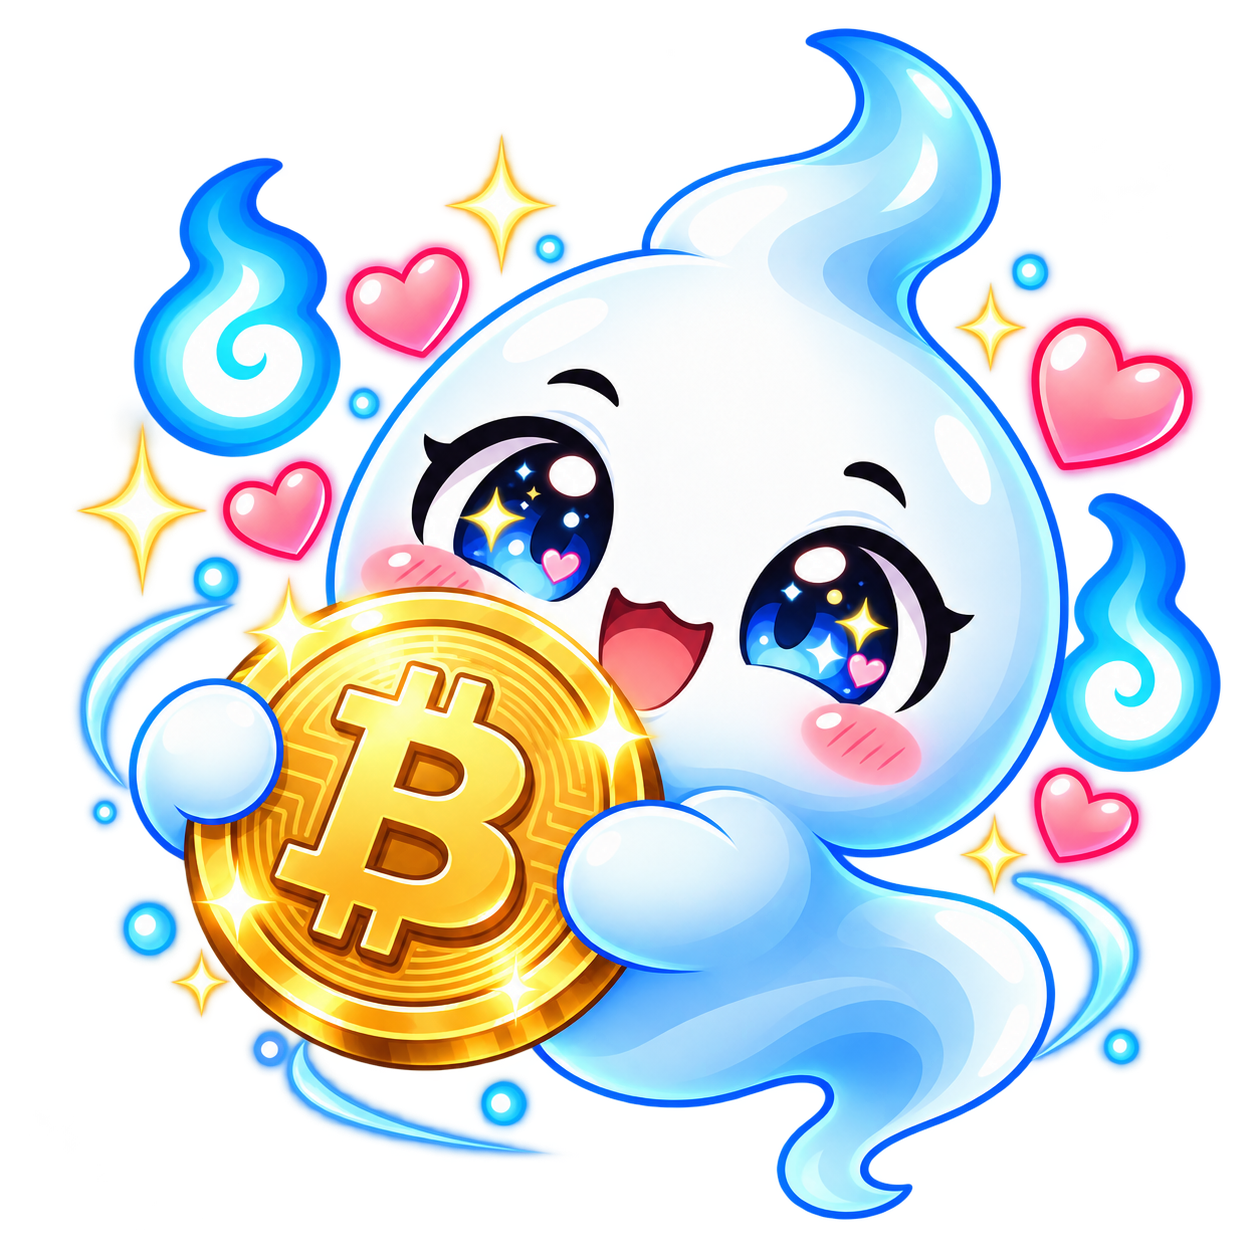
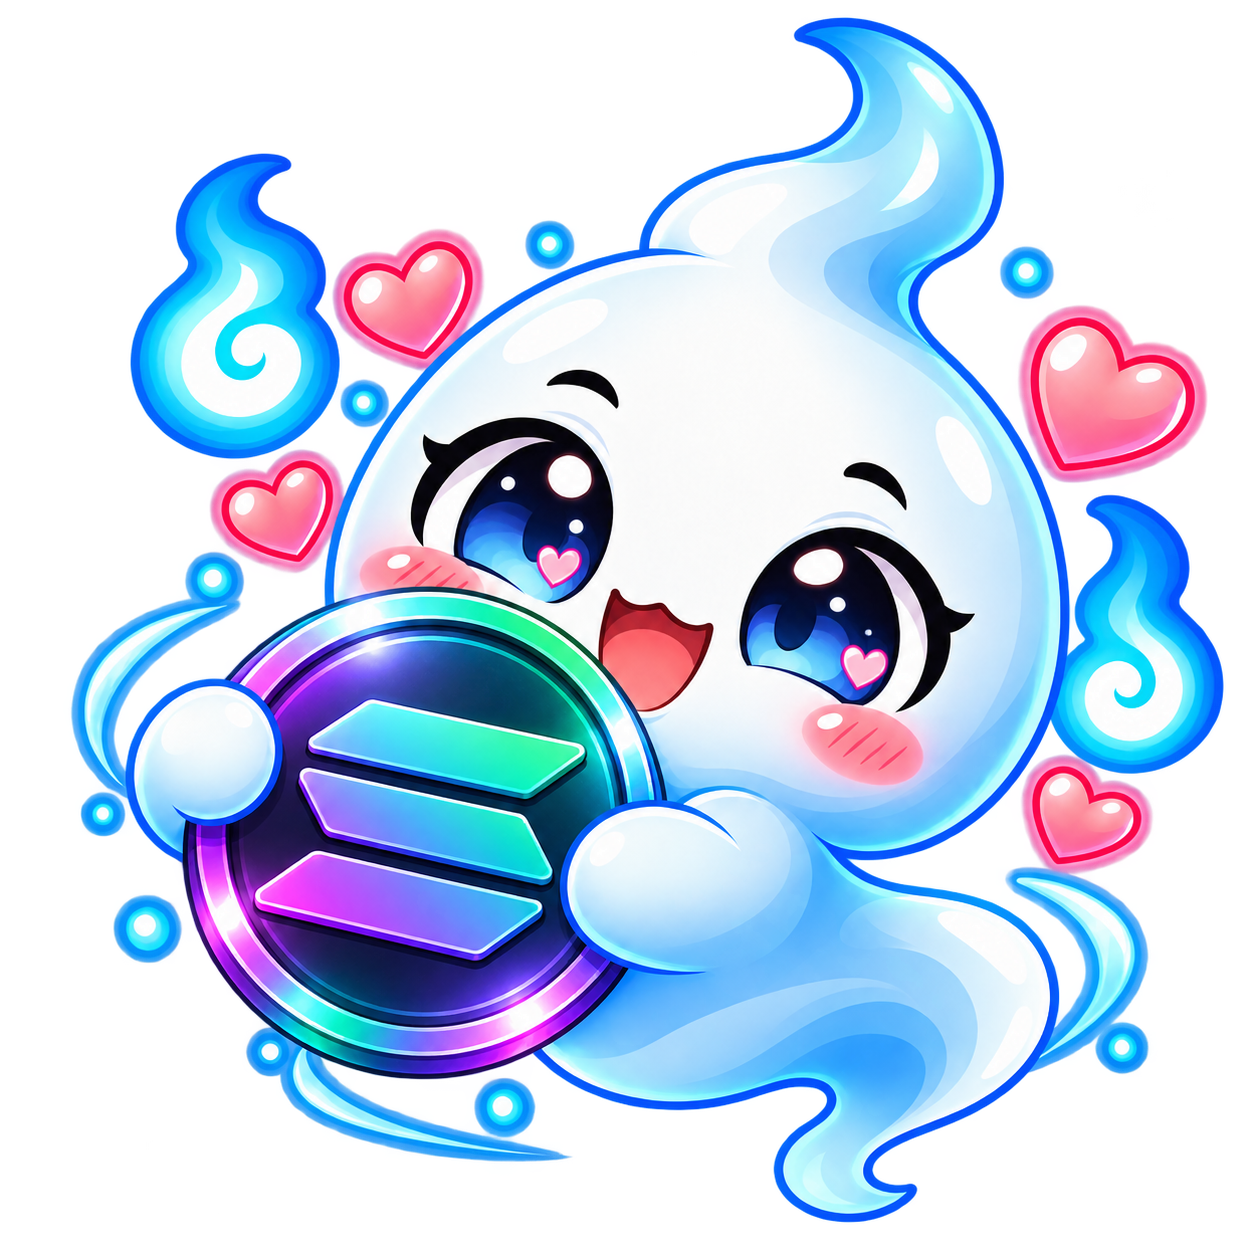
feat: add Solana support and automatic tape sorting

diff --git a/website/styles.css b/website/styles.css
@@ -375,14 +375,25 @@ h1 em, h2 em { color: transparent; font-style: normal; background: linear-gradie
 
 .support-section { display: grid; grid-template-columns: minmax(18rem, .75fr) minmax(25rem, 1.25fr); align-items: center; gap: clamp(2rem, 7vw, 8rem); }
 .support-character { position: relative; min-height: 30rem; display: grid; place-items: center; }
-.support-character::before { content: ""; position: absolute; width: 80%; aspect-ratio: 1; border-radius: 50%; background: radial-gradient(circle, rgba(255,193,76,.14), transparent 66%); }
+.support-character::before { content: ""; position: absolute; width: 80%; aspect-ratio: 1; border-radius: 50%; background: radial-gradient(circle, rgba(116,89,255,.2), rgba(20,241,149,.08) 38%, transparent 68%); }
 .support-character img { position: relative; width: min(26rem, 90%); filter: drop-shadow(0 2rem 2.5rem rgba(0,4,18,.42)); }
 .support-copy > p:not(.eyebrow) { max-width: 43rem; margin: 1.5rem 0; color: var(--muted); font-size: 1rem; }
-.support-paused { max-width: 48rem; padding: 1.1rem; display: grid; grid-template-columns: 3rem 1fr; gap: 1rem; border: 1px solid rgba(255,198,95,.26); border-radius: 1.2rem; background: rgba(92,55,11,.16); }
-.support-paused > span { width: 3rem; height: 3rem; display: grid; place-items: center; border-radius: .85rem; background: rgba(255,190,70,.13); color: var(--warm); font-size: 1.3rem; }
-.support-paused strong { font-size: .86rem; }
-.support-paused p { margin: .35rem 0 0; color: var(--muted); font-size: .76rem; }
-.support-paused code { color: var(--warm); font-size: .74rem; }
+.solana-donation { position: relative; max-width: 52rem; padding: 1rem; display: grid; grid-template-columns: 11rem minmax(0, 1fr); align-items: center; gap: 1.25rem; overflow: hidden; border: 1px solid color-mix(in srgb, #14f195 35%, var(--line)); border-radius: 1.5rem; background: linear-gradient(135deg, rgba(20,241,149,.09), rgba(153,69,255,.13) 55%, var(--surface)); box-shadow: inset 0 1px rgba(255,255,255,.08), 0 1.5rem 4rem rgba(0,4,18,.22); }
+.solana-donation::after { content: ""; position: absolute; right: -5rem; bottom: -7rem; width: 16rem; aspect-ratio: 1; border-radius: 50%; background: radial-gradient(circle, rgba(153,69,255,.16), transparent 68%); pointer-events: none; }
+.solana-qr { position: relative; z-index: 1; padding: .55rem; border: 1px solid rgba(255,255,255,.12); border-radius: 1.1rem; background: #030303; text-align: center; }
+.solana-qr img { width: 100%; height: auto; display: block; border-radius: .7rem; }
+.solana-qr span { display: block; margin: .55rem .25rem .2rem; color: #d8e6ff; font-size: .57rem; line-height: 1.4; }
+.solana-details { position: relative; z-index: 1; min-width: 0; }
+.solana-network { width: fit-content; margin-bottom: .85rem; padding: .4rem .62rem; display: flex; align-items: center; gap: .45rem; border: 1px solid rgba(20,241,149,.28); border-radius: 999px; background: rgba(20,241,149,.08); color: #72f5bd; font-size: .56rem; font-weight: 850; letter-spacing: .1em; text-transform: uppercase; }
+.solana-network i { width: .45rem; height: .45rem; border-radius: 50%; background: #14f195; box-shadow: 0 0 .75rem #14f195; }
+.solana-details > strong { display: block; font-size: .9rem; }
+.solana-details code { margin-top: .55rem; padding: .8rem .9rem; display: block; overflow-wrap: anywhere; border: 1px solid var(--line); border-radius: .85rem; background: rgba(1,8,20,.62); color: #d9d3ff; font: 700 .73rem/1.55 ui-monospace, SFMono-Regular, Consolas, monospace; user-select: all; }
+.solana-actions { margin-top: .75rem; display: flex; flex-wrap: wrap; gap: .55rem; }
+.solana-actions button, .solana-actions a { min-height: 2.75rem; padding: .65rem .85rem; display: inline-flex; align-items: center; justify-content: center; border: 1px solid var(--line-strong); border-radius: .8rem; color: var(--text); font-size: .68rem; font-weight: 800; cursor: pointer; }
+.solana-actions button { background: linear-gradient(125deg, #14a97d, #7956e8); }
+.solana-actions a { background: var(--surface-soft); }
+.solana-actions button:hover, .solana-actions a:hover { transform: translateY(-2px); border-color: #72f5bd; }
+.solana-details > p { margin: .75rem 0 0; color: var(--faint); font-size: .64rem; line-height: 1.55; }
 
 .baki-guide { position: fixed; z-index: 90; right: 1.1rem; bottom: 1.1rem; width: min(22rem, calc(100vw - 2rem)); min-height: 5.2rem; padding: .75rem 2.6rem .75rem 5.4rem; display: flex; align-items: center; border: 1px solid var(--line-strong); border-radius: 1.25rem; background: color-mix(in srgb, var(--surface-solid) 89%, transparent); box-shadow: 0 1.4rem 3.5rem rgba(0,4,18,.44), inset 0 1px rgba(255,255,255,.08); backdrop-filter: blur(20px); transform: translateY(140%); opacity: 0; transition: transform .5s cubic-bezier(.2,.8,.2,1), opacity .5s ease; }
 .baki-guide.visible { transform: none; opacity: 1; }
@@ -511,8 +522,8 @@ footer > div a:hover { color: var(--accent); }
   .final-download { min-height: 38rem; border-radius: 2rem; padding-left: 1rem; padding-right: 1rem; }
   .final-download > img { width: 19rem; right: -8rem; opacity: .35; }
   .support-character { min-height: 19rem; }
-  .support-paused { grid-template-columns: 2.5rem 1fr; }
-  .support-paused > span { width: 2.5rem; height: 2.5rem; }
+  .solana-donation { grid-template-columns: 1fr; }
+  .solana-qr { width: min(15rem, 100%); }
   .baki-guide { right: .6rem; bottom: .6rem; width: calc(100vw - 1.2rem); }
   footer { grid-template-columns: 1fr; justify-items: center; text-align: center; }
   footer > div { flex-wrap: wrap; justify-content: center; }

diff --git a/website/app.js b/website/app.js
@@ -152,6 +152,7 @@ const machineSelected = new Set();
 const machineStepOrder = ['idle', 'intake', 'analysis', 'sorting', 'organized'];
 let machineBusy = false;
 let machineRunToken = 0;
+let machineAutoRunTimer = 0;
 let machine3D = null;
 let machineLoadStarted = false;
 
@@ -212,6 +213,16 @@ function selectMachineFile(id, announce = true) {
   } else if (machineStatus) {
     machineStatus.textContent = machineSelected.size ? 'Fita inserida. Jogue outras na máquina ou inicie a organização.' : 'Escolha fitas ou organize todas de uma vez.';
   }
+  window.clearTimeout(machineAutoRunTimer);
+  machineAutoRunTimer = 0;
+  if (machineSelected.size === machineFileButtons.length) {
+    if (machineStatus) machineStatus.textContent = 'Todas as quatro fitas entraram. Organização automática iniciando…';
+    machineMood('happy', 'Coleção completa! Vou colocar tudo em ordem agora.', false);
+    machineAutoRunTimer = window.setTimeout(() => {
+      machineAutoRunTimer = 0;
+      if (!machineBusy && machineSelected.size === machineFileButtons.length) organizeMachine();
+    }, reduceMotion ? 0 : 650);
+  }
 }
 
 function machineDelay(milliseconds, token) {
@@ -219,6 +230,8 @@ function machineDelay(milliseconds, token) {
 }
 
 async function organizeMachine() {
+  window.clearTimeout(machineAutoRunTimer);
+  machineAutoRunTimer = 0;
   if (machineBusy) {
     if (machineStatus) machineStatus.textContent = 'A máquina já está processando. Espere só um instante.';
     return;
@@ -260,6 +273,8 @@ async function organizeMachine() {
 }
 
 function resetMachine() {
+  window.clearTimeout(machineAutoRunTimer);
+  machineAutoRunTimer = 0;
   machineRunToken += 1;
   machineBusy = false;
   machineSelected.clear();
@@ -298,7 +313,7 @@ machineCameraZone?.addEventListener('drop', event => {
   machineRoot?.classList.remove('drop-ready');
   const id = event.dataTransfer?.getData('text/plain');
   if (id && !machineSelected.has(id)) selectMachineFile(id);
-  if (id && machineStatus) machineStatus.textContent = 'A fita foi guardada dentro da máquina. Pode inserir outra ou começar.';
+  if (id && machineStatus && machineSelected.size < machineFileButtons.length) machineStatus.textContent = 'A fita foi guardada dentro da máquina. Pode inserir outra ou começar.';
 });
 machineSeriesToggle?.addEventListener('click', () => {
   if (!machineEpisodes || machineSeriesToggle.disabled) return;
@@ -637,8 +652,8 @@ async function createMachine3D() {
       draggedCard = null;
       if (enteredMachine) {
         if (!machineSelected.has(id)) selectMachineFile(id, id === '4');
-        if (machineStatus) machineStatus.textContent = 'A fita foi guardada dentro da máquina. Pode inserir outra ou começar.';
-        machineMood('normal', 'Peguei! Ela está segura aqui dentro.', false);
+        if (machineStatus && machineSelected.size < machineFileButtons.length) machineStatus.textContent = 'A fita foi guardada dentro da máquina. Pode inserir outra ou começar.';
+        if (machineSelected.size < machineFileButtons.length) machineMood('normal', 'Peguei! Ela está segura aqui dentro.', false);
       } else if (!moved) {
         selectMachineFile(id);
       } else if (machineStatus) {
@@ -705,6 +720,28 @@ if (machineRoot && 'IntersectionObserver' in window) {
   loadMachine3D();
 }
 document.addEventListener('visibilitychange', () => machine3D?.setActive(!document.hidden && Boolean(machineRoot?.getBoundingClientRect().bottom > 0)));
+
+const solanaDonationAddress = 'C4rPy4tYhFrpYA4U6BHaef7r8acEG9QWCfWrpgGddKwC';
+const copySolanaAddress = $('#copySolanaAddress');
+const solanaStatus = $('#solanaStatus');
+copySolanaAddress?.addEventListener('click', async () => {
+  try {
+    await navigator.clipboard.writeText(solanaDonationAddress);
+  } catch {
+    const field = document.createElement('textarea');
+    field.value = solanaDonationAddress;
+    field.setAttribute('readonly', '');
+    field.style.position = 'fixed';
+    field.style.opacity = '0';
+    document.body.appendChild(field);
+    field.select();
+    document.execCommand('copy');
+    field.remove();
+  }
+  copySolanaAddress.textContent = 'Endereço copiado';
+  if (solanaStatus) solanaStatus.textContent = 'Endereço Solana copiado. Confira a rede e o endereço na sua carteira antes de enviar.';
+  window.setTimeout(() => { copySolanaAddress.textContent = 'Copiar endereço'; }, 2400);
+});
 
 const journeyStates = {
   quero: { progress: 0, time: 'Ainda não iniciado', percent: '0%', action: 'Começar o episódio', message: 'Adicionado à jornada. Quando começar, eu guardo o caminho.', mood: 'normal' },

diff --git a/website/index.html b/website/index.html
@@ -173,7 +173,27 @@
 
     <section class="final-download section-shell" aria-labelledby="download-title"><div class="final-sky" aria-hidden="true"></div><img src="./assets/baki-happy.png" alt="Baki-Pi convidando para começar uma nova jornada" width="1024" height="1024" loading="lazy"><div class="final-copy reveal"><p class="eyebrow centered"><span></span> Sua estante está esperando <span></span></p><h2 id="download-title">A próxima memória<br><em>começa no seu PC.</em></h2><a class="primary-action release-link" href="https://github.com/PedroVitor-Dev/AniT/releases/latest"><span class="action-mark" aria-hidden="true">✦</span><span><strong>Baixar AniT para Windows</strong><small class="release-meta">Versão mais recente</small></span></a><p>Instalador x64 · Windows 10 ou 11 · gratuito e open source</p></div></section>
 
-    <section class="support-section section-shell" id="apoie" aria-labelledby="support-title"><div class="support-character reveal"><img src="./assets/baki-donation.png" alt="Baki-Pi cuidando de uma pequena chama" width="1024" height="1024" loading="lazy"></div><div class="support-copy reveal" data-delay="1"><p class="eyebrow"><span></span> Apoio opcional</p><h2 id="support-title">Ajude a chama<br><em>a continuar acesa.</em></h2><p>O AniT é gratuito e independente. A área de apoio está pronta, mas a invoice anterior era temporária e expira em 5 de outubro de 2026.</p><div class="support-paused" role="note"><span aria-hidden="true">⚡</span><div><strong>Doações Lightning temporariamente pausadas</strong><p>Para ativar de forma confiável, falta um endereço Lightning reutilizável — por exemplo, <code>nome@dominio</code> — e o QR Code correspondente.</p></div></div></div></section>
+    <section class="support-section section-shell" id="apoie" aria-labelledby="support-title">
+      <div class="support-character reveal"><img src="./assets/baki-donation.png" alt="Baki-Pi segurando uma moeda da rede Solana" width="1024" height="1024" loading="lazy"></div>
+      <div class="support-copy reveal" data-delay="1">
+        <p class="eyebrow"><span></span> Apoio opcional · Solana</p>
+        <h2 id="support-title">Ajude a chama<br><em>a continuar acesa.</em></h2>
+        <p>O AniT é gratuito, independente e open source. Se ele deixou sua biblioteca mais especial, você pode apoiar o projeto pela rede Solana.</p>
+        <div class="solana-donation">
+          <div class="solana-qr"><img src="./assets/solana-qr.png" alt="QR Code do endereço Solana do AniT" width="281" height="248" loading="lazy"><span>Escaneie com uma carteira Solana</span></div>
+          <div class="solana-details">
+            <span class="solana-network"><i aria-hidden="true"></i> Solana mainnet</span>
+            <strong>Endereço para doação</strong>
+            <code id="solanaAddress">C4rPy4tYhFrpYA4U6BHaef7r8acEG9QWCfWrpgGddKwC</code>
+            <div class="solana-actions">
+              <button id="copySolanaAddress" type="button">Copiar endereço</button>
+              <a href="https://explorer.solana.com/address/C4rPy4tYhFrpYA4U6BHaef7r8acEG9QWCfWrpgGddKwC" target="_blank" rel="noopener noreferrer">Ver no Solana Explorer</a>
+            </div>
+            <p id="solanaStatus" role="status" aria-live="polite">Endereço público reutilizável e sem vencimento automático. Envie somente ativos compatíveis com a rede Solana.</p>
+          </div>
+        </div>
+      </div>
+    </section>
   </main>
 
   <aside class="baki-guide" id="bakiGuide" aria-live="polite"><img id="guideBaki" src="./assets/baki-normal.png" alt="" width="1024" height="1024"><p id="guideText">Eu cuido das memórias. Você escolhe a próxima história.</p><button type="button" id="closeGuide" aria-label="Fechar mensagem do Baki-Pi">×</button></aside>
